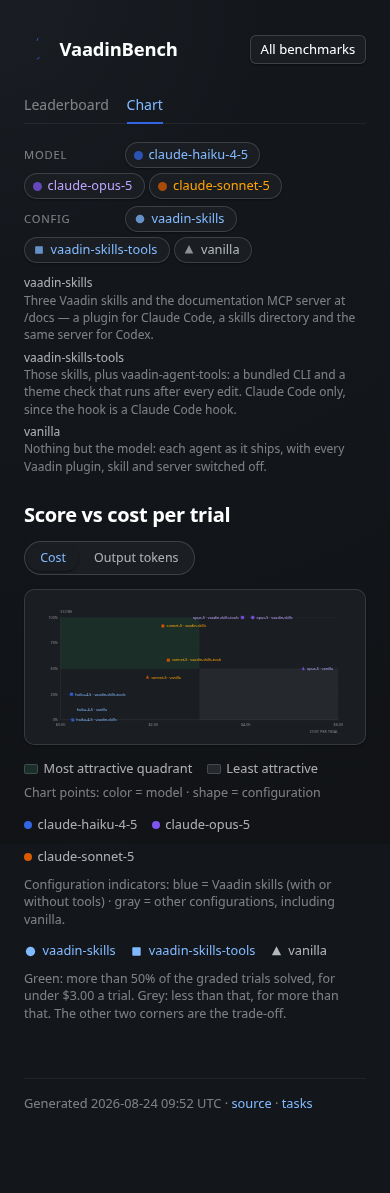
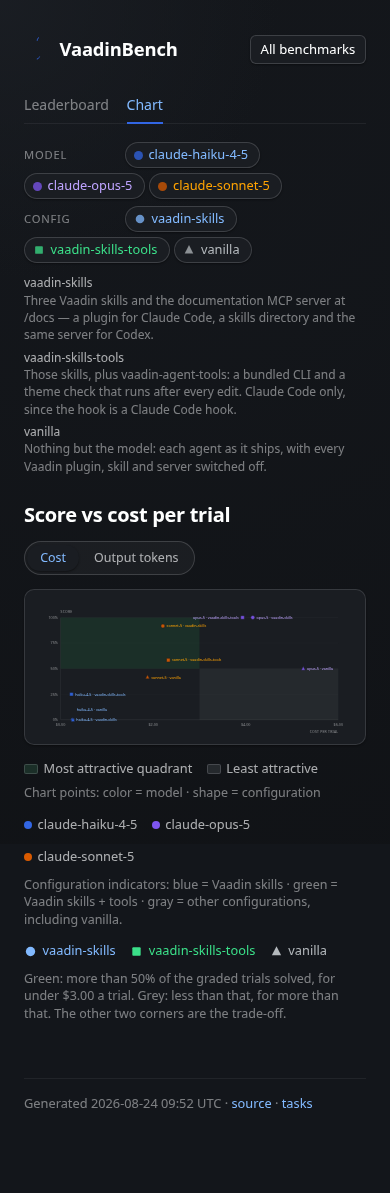
Use green for the skills and tools configuration

diff --git a/common.js b/common.js
@@ -189,11 +189,12 @@ function shapeMap(configs) {
 }
 
 // Chart points encode configuration by shape and model by colour. Outside the
-// plot, Vaadin configurations share Aura blue; other configurations stay neutral.
+// plot, skills use Aura blue, skills with tools use green, and others stay neutral.
 // Keep this mapping consistent in filters, table rows and the config legend.
 function configHueMap(configs) {
     return new Map([...new Set(configs)].sort().map((config) => [
-        config, config === "vaadin-skills" || config === "vaadin-skills-tools" ? "blue" : "neutral",
+        config, config === "vaadin-skills-tools" ? "green"
+            : config === "vaadin-skills" ? "blue" : "neutral",
     ]));
 }
 

diff --git a/index.js b/index.js
@@ -371,7 +371,7 @@ function renderChart(rows, hues, shapes, configHues, field) {
     ${bands.legend}
     <p class="chart-note">Chart points: color = model · shape = configuration</p>
     <div class="legend">${models}</div>
-    <p class="chart-note">Configuration indicators: blue = Vaadin skills (with or without tools) · gray = other configurations, including vanilla.</p>
+    <p class="chart-note">Configuration indicators: blue = Vaadin skills · green = Vaadin skills + tools · gray = other configurations, including vanilla.</p>
     <div class="legend">${configs}</div>
     ${bands.note}`;
 }
